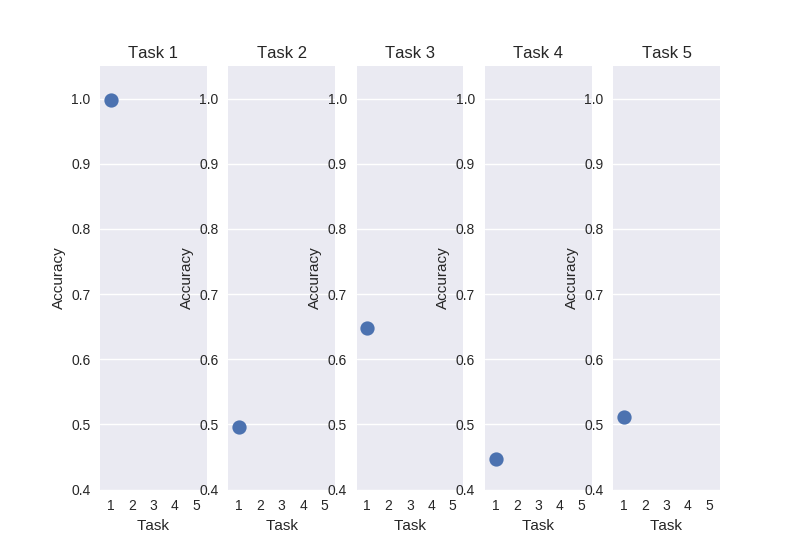
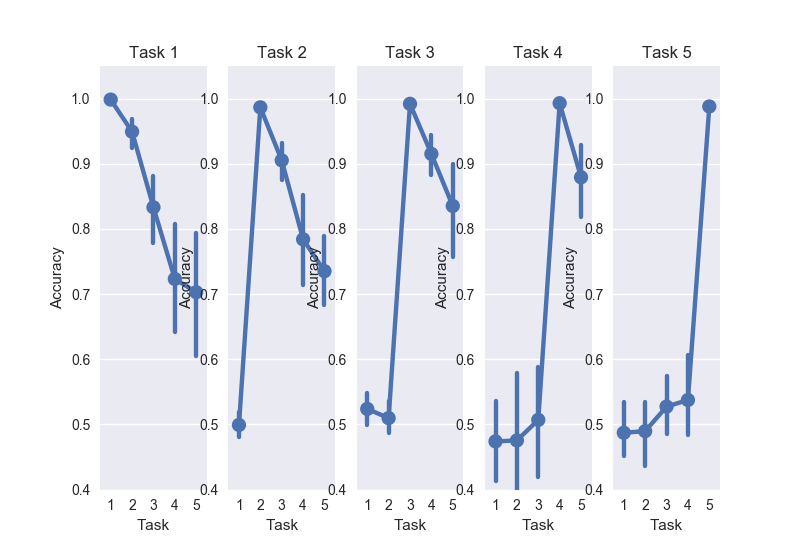
start intelligent synapses integration

diff --git a/multi_network.py b/multi_network.py
@@ -28,19 +28,24 @@ class Network(object):
             self.y.append(tf.placeholder("float", [None, self.n_classes_per_head]))
 
         # Store layers weight & bias
-        layer_1_weights = tf.Variable(tf.random_normal([self.n_input, self.n_hidden_1]))
-        layer_2_weights = tf.Variable(tf.random_normal([self.n_hidden_1, self.n_hidden_2]))
-        output_layer_weights = [
-            tf.Variable(tf.random_normal([self.n_hidden_2, self.n_classes_per_head])) for _ in range(self.n_heads)
-            ]
+        layer_1_weights = tf.Variable(tf.random_normal([self.n_input, self.n_hidden_1]), name='H1_weights')
+        layer_2_weights = tf.Variable(tf.random_normal([self.n_hidden_1, self.n_hidden_2]), name='H2_weights')
+        output_layer_weights = []
+        for i in range(self.n_heads):
+            varname = 'outweights_head_' + str(i)
+            output_layer_weights.append(tf.Variable(tf.random_normal([self.n_hidden_2, self.n_classes_per_head]),
+                                                    name=varname))
 
         self.weights = {'h1': layer_1_weights,
                         'h2': layer_2_weights,
                         'out': output_layer_weights}
 
-        layer_1_biases = tf.Variable(tf.random_normal([self.n_hidden_1]))
-        layer_2_biases = tf.Variable(tf.random_normal([self.n_hidden_2]))
-        output_layer_biases = [tf.Variable(tf.random_normal([self.n_classes_per_head])) for _ in range(self.n_heads)]
+        layer_1_biases = tf.Variable(tf.random_normal([self.n_hidden_1]), name='H1_bias')
+        layer_2_biases = tf.Variable(tf.random_normal([self.n_hidden_2]), name='H2_bias')
+        output_layer_biases = []
+        for i in range(self.n_heads):
+            output_layer_biases.append(tf.Variable(tf.random_normal([self.n_classes_per_head]), name='out_bias_'
+                                                                                                     + str(i)))
 
         self.biases = {
             'b1': layer_1_biases,
@@ -68,11 +73,12 @@ class Network(object):
         # optimisers
         self.joint_optimiser = tf.train.AdamOptimizer(learning_rate=self.learning_rate).minimize(self.Joint_Loss)
         self.optimiser = []
+        self.train_step = []
         for head in range(n_heads):
-            optimiser_per_head = tf.train.AdamOptimizer(learning_rate=self.learning_rate).\
-                minimize(self.cost[head], global_step=self.global_step_tensor)
-
+            optimiser_per_head = tf.train.AdamOptimizer(learning_rate=self.learning_rate)
+            train_step_h = optimiser_per_head.minimize(self.cost[head], global_step=self.global_step_tensor)
             self.optimiser.append(optimiser_per_head)
+            self.train_step.append(train_step_h)
 
         # Initialize all variables
         self.network_initializer = tf.global_variables_initializer()
@@ -117,8 +123,7 @@ class Network(object):
 
             for batch in batches:
                 # Run optimization op (backprop) and cost op (to get loss value)
-                print('global_step: %s' % tf.train.global_step(sess, self.global_step_tensor))
-                _, c = sess.run([self.optimiser[head], self.cost[head]], feed_dict={self.x: batch[0],
+                _, c = sess.run([self.train_step[head], self.cost[head]], feed_dict={self.x: batch[0],
                                                                                     self.y[head]: batch[1]})
                 # Compute average loss
                 avg_cost += c / total_batch
@@ -145,28 +150,21 @@ class Network(object):
         print("Accuracy:", score)
         return score
 
-    def reset_optimizer(self, sess):
+    def reset_optimizers(self, sess):
         # TODO: make this function neater (explicit variable re-initialisation)
+
+        print('Resetting optimisers...')
         temp = set(tf.global_variables())
-        self.optimizer = tf.train.AdamOptimizer(learning_rate=self.learning_rate,
+        for head in range(self.n_heads):
+            self.optimiser[head] = tf.train.AdamOptimizer(learning_rate=self.learning_rate,
                                                 beta1=0.9,
-                                                beta2=0.999).minimize(self.cost)
-        print(set(tf.global_variables()) - temp)
+                                                beta2=0.999).minimize(self.cost[head])
         sess.run(tf.variables_initializer(set(tf.global_variables()) - temp))
 
-    def reset_optimizer_2(self, sess):
-        model_variables = set(tf.global_variables())
-        self.optimizer = tf.train.AdamOptimizer(learning_rate=self.learning_rate,
-                                                beta1=0.9,
-                                                beta2=0.999)
-        self.train_run = self.optimizer.minimize(self.cost)
-        print({self.optimizer._beta1_power, self.optimizer._beta2_power})
-        sess.run(tf.variables_initializer([self.optimizer._beta1_power, self.optimizer._beta2_power]))
-
     def compute_omega(self, loss, head):
-
+        weights = [self.weights['h1'], self.weights['h2'], self.weights['out'][head]]
         # Gradient of the loss function with respect to the weights
-        weight_gradients = tf.gradients(loss, [self.weights['h1'], self.weights['h2'], self.weights['out'][head]])
+        weight_gradients = tf.gradients(loss, weights)
         # Parameter update: partial derivative of the parameters wrt time
-        parameter_update = tf.gradients([self.weights['h1'], self.weights['h2'], self.weights['out'][head]], self.global_step_tensor)
-
+        parameter_update = self.optimiser[head].compute_gradients(loss,weights)
+        self.omega = weight_gradients * parameter_update

diff --git a/split_mnist.py b/split_mnist.py
@@ -1,6 +1,6 @@
 import numpy as np
 import tensorflow as tf
-
+import matplotlib.pyplot as plt
 from mnist_loader import load_mnist, make_mnist_subset_categorical_labels
 from multi_network import Network
 
@@ -26,21 +26,22 @@ for train_task in range(0, 10, 2):
 net = Network(5)
 net.learning_rate = 0.01
 ############################################## RUN THE MODEL ########################################################
-n_runs = 1
+n_runs = 10
 
-score = np.full([5,5,n_runs], np.nan)
+score = np.full([5, 5, n_runs], np.nan)
 
-net.n_training_epochs = 1
 with tf.Session() as sess:
     for run in range(n_runs):
         sess.run(tf.global_variables_initializer())
-        for train_task in range(1):
+        for train_task in range(5):
+            net.reset_optimizers(sess)
             net.run_training_cycle(sess, train_task, train_images[train_task], train_labels[train_task])
-            #global_step = tf.train.global_step(sess, global_step_tensor)
 
             for test_task in range(5):
-                score[train_task, test_task, run] = net.test_model(test_task, test_images[test_task], test_labels[test_task])
-    print(global_step_tensor.eval(sess))
+                score[train_task, test_task, run] = net.test_model(test_task,
+                                                                   test_images[test_task],
+                                                                   test_labels[test_task])
 
-#plt.figure()
-#plot_average_split_mnist_scores(score,'split_mnist.png')
+
+plt.figure()
+plot_average_split_mnist_scores(score, 'split_mnist_reset_optimizer.png')
